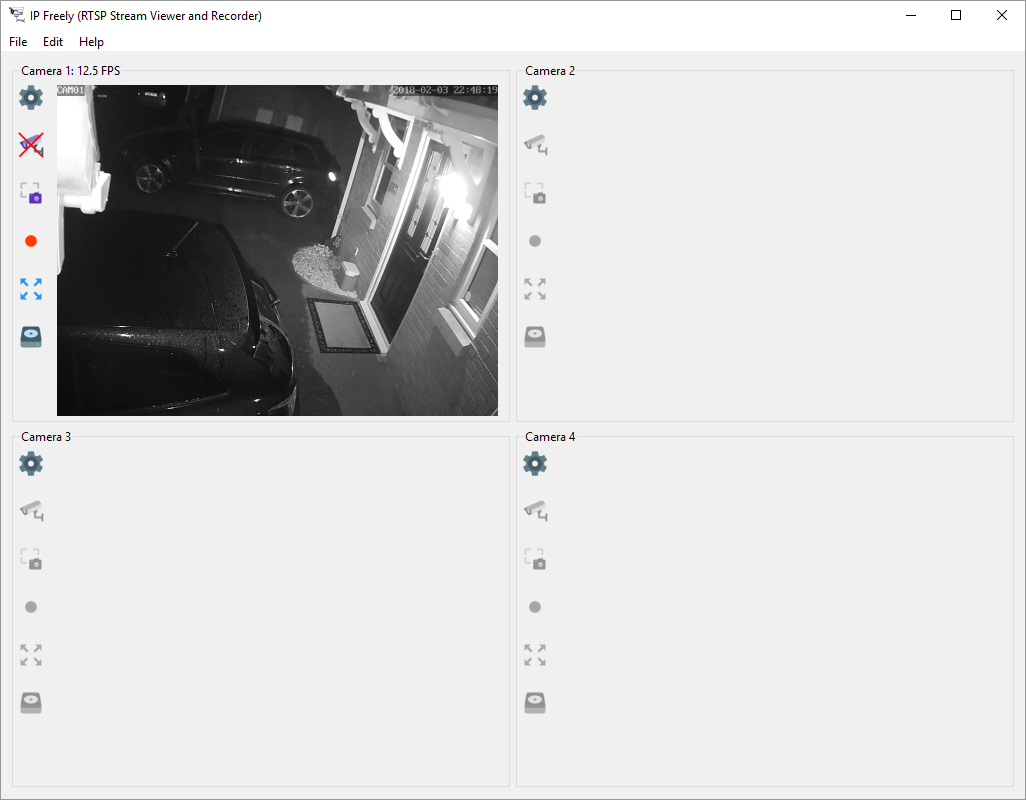
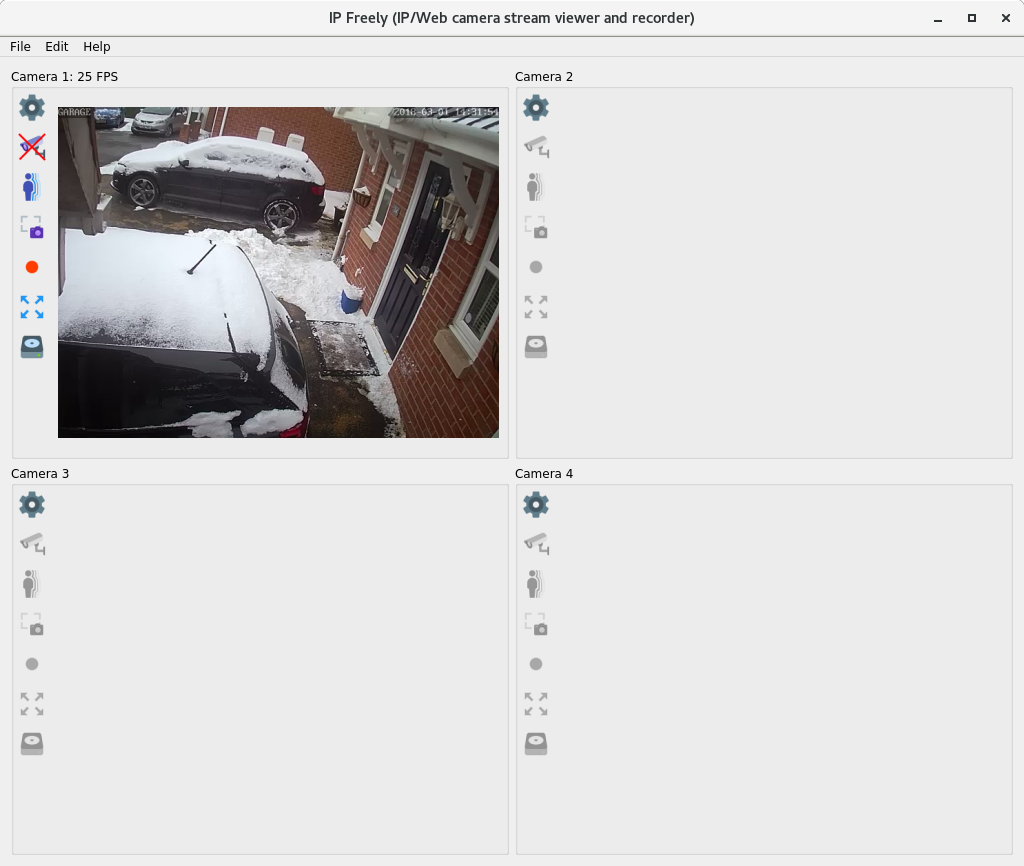
Updated ReadMe.md plus screenshots

diff --git a/README.md b/README.md
@@ -1,6 +1,6 @@
 # IP Freely (IP/Web camera stream viewer and recorder) #
 ## Introduction ##
-This project implements a hopefully useful cross-platform application to view and record from up to 4 IP camera live RTSP and HTTP(S) streams. You can also connect to local web cams. The application also allows you to view a camera's on-board storage (e.g. SD card) and download video content from the camera's on-board storage to your PC (or anywhere else your PC can browse to on your network, e.g. a NAS).
+This project implements a hopefully useful cross-platform application to view and record from up to 4 IP cameras' live RTSP and HTTP(S) streams. You can also connect to local web cameras. The application also allows you to view a camera's on-board storage (e.g. SD card) and download video content from the camera's on-board storage to your PC (or anywhere else your PC can browse to on your network, e.g. a NAS).
 
 It is licensed under the GNU Lesser General Public License 3.0 and the relevant documentation for this can be found at the top of each source file and the LICENSE text file.
 
@@ -11,30 +11,33 @@ Copyright (C) 2018 Duncan Crutchley.
 ## Background ##
 I started this project shortly after buying and installing some RTSP compatible IP security cameras at my house. The software that came with the cameras was adequate but not great; relying on ActiveX and Internet Explorer. Instead this project provides a native application to view and record up to 4 cameras' streams. Currently, this application does not give you any control over the IP cameras' on-board settings.
 
-## Key Features (Version 1.1.0.0) ##
+## Key Features (Current Version 1.1.5.0) ##
+* Clean and intuitive UI, hopefully!
 * Multi-threaded.
 * Cross-platform (Windows and Linux).
-* Supports up to 4 user configurable RTSP camera streams displayed in a 2x2 grid.
-* Clean and intuitive UI, hopefully!
+* Supports up to 4 user configurable IP or web camera streams displayed in a 2x2 grid.
 * If a suitable URL is provided then you can view a camera's on-board storage (e.g. SD card) and download the content to your PC.
 * The user can view a larger expanded view from any of the 4 streams.
 * Still snapshot images can be taken from the camera feeds at any time with the click of a button.
-* Local AVI (DivX) video recordings can be made from the camera streams at the click of button.
+* Local AVI (DivX on Windows, XDiv on Linux) video recordings can be made from the camera streams at the click of button.
 * Scheduled recording can be setup and enabled on a per camera basis, with the schedule allowing selection of days and active hours in the day.
-* Motion detection with user-configurable scheduling (similar to scheduled recordings). 
+* Motion detection can be setup with user-configurable scheduling (similar to scheduled recordings). 
 * Per camera user definable motion detection regions.
 * Per camera motion detection algorithm sensitivity (off, low sensitivity, medium sensitivity, high sensitivity and manual settings).
+* Built-in disk space manager. User can configure how many days recordings to keep and a maximum percentage of used disk space. The disk manager periodically i nthe background will remove oldest data first and ensures used space always falls within defined limits.
 * (Planned) Motion triggered email send email alerts. 
 * (Planned) Built-in web server to display some basic features, such as periodically updated snapshots from the camera feeds.
 
 ## Screen-shots ##
-Taken from release 1.0.1.0 (slightly out-of-date).
+Taken from release 1.1.5.0.
 
 ### Preferences ###
 
 ![alt text][pic04]
 
 ![alt text][pic05]
+
+![alt text][pic08]
 
 ### Camera Setup ###
 
@@ -43,6 +46,8 @@ Taken from release 1.0.1.0 (slightly out-of-date).
 ### Main Screen ###
 
 ![alt text][pic01]
+
+![alt text][pic09]
 
 ![alt text][pic02]
 
@@ -57,6 +62,8 @@ Taken from release 1.0.1.0 (slightly out-of-date).
 [pic05]: https://github.com/dac1976/IP-Freely/blob/master/Images/pic05.png "Recording schedule preferences."
 [pic06]: https://github.com/dac1976/IP-Freely/blob/master/Images/pic06.png "Camera storage browser."
 [pic07]: https://github.com/dac1976/IP-Freely/blob/master/Images/pic07.png "Camera stream recording."
+[pic08]: https://github.com/dac1976/IP-Freely/blob/master/Images/pic08.png "Motion detection schedule."
+[pic09]: https://github.com/dac1976/IP-Freely/blob/master/Images/pic08.png "Motion region setup."
 
 ## Build Requirements ##
 This application has been developed in Qt Creator and tested for use in Windows 10 and Linux (Ubuntu 17.10). In Windows it is recommended to use the MSVC2015 64bit tool chain from within Qt Creator to build and test the code. In Linux the code has been tested with GCC 7.2.0 but other C++11 compilers should be fine, such as Clang.
